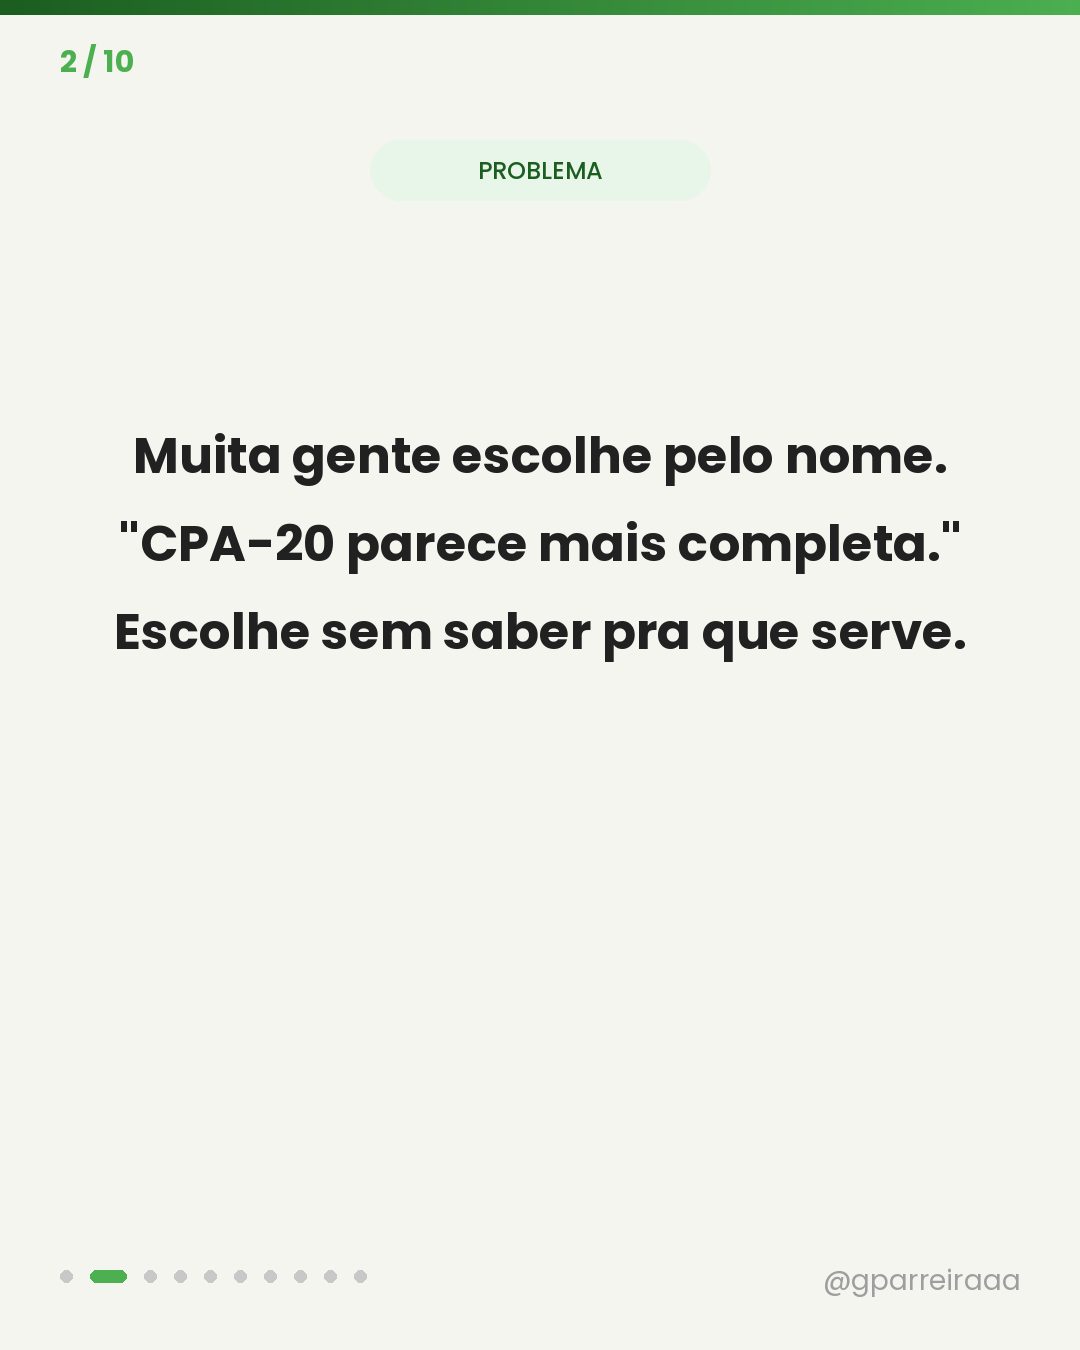
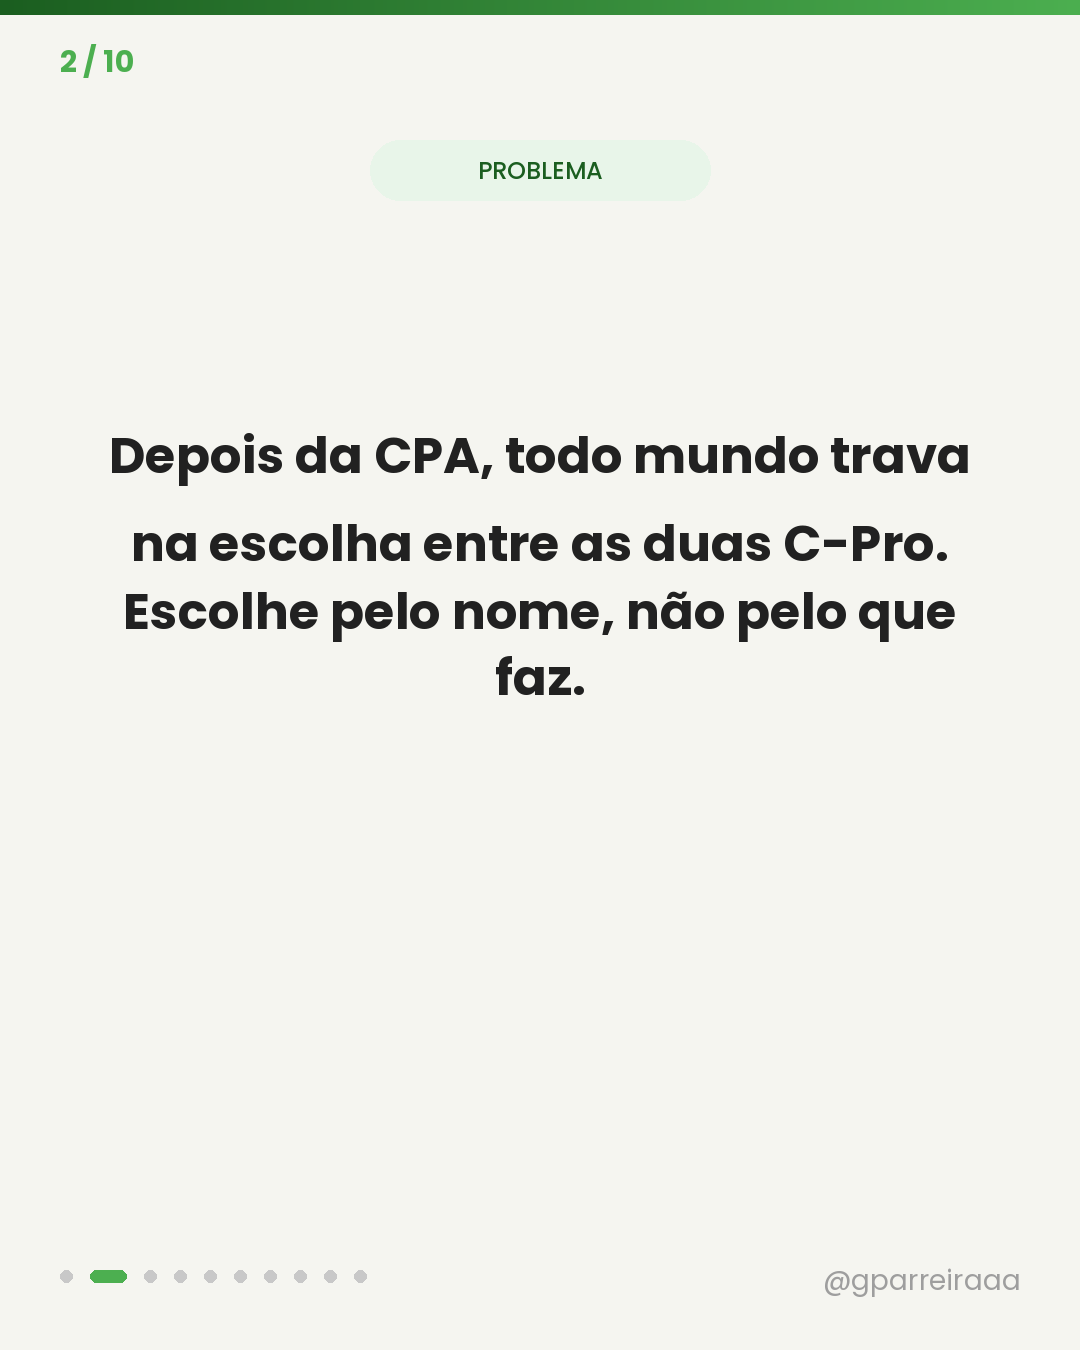
Corrige nomenclatura de certificações ANBIMA (CPA-10/20/CEA descontinuadas)
Desde jan/2026 a ANBIMA substituiu CPA-10, CPA-20 e CEA por CPA (base
única) + C-Pro R (relacionamento) + C-Pro I (investimento), confirmado
em anbimaedu.com.br/certificacoes. Atualiza todas as menções no
calendário e nos 7 posts da semana de teste; reescreve o post de 14/08
("Comparativo de Certificações"), que era inteiramente sobre CPA-10 x
CPA-20 e agora compara C-Pro R x C-Pro I (a decisão real pós-CPA);
regenera as imagens de 12/08 e 14/08 que citavam as siglas antigas.

Changed region(s): [[0.0917, 0.3111, 0.9167, 0.5289]]

diff --git a/conteudo/scripts/gerar_2026-08-14_cpa_comparativo.py b/conteudo/scripts/gerar_2026-08-14_cpa_comparativo.py
@@ -1,6 +1,7 @@
 """
-Gera o carrossel de 14/08/2026 — Comparativo CPA-10 x CPA-20.
+Gera o carrossel de 14/08/2026 — Comparativo C-Pro R x C-Pro I.
 Baseado no copy validado em conteudo/posts/2026-08-14/copy.md
+Reescrito em 04/08 — nomenclatura ANBIMA vigente desde jan/2026 (CPA-10/CPA-20/CEA descontinuadas).
 """
 import os
 import sys
@@ -38,21 +39,21 @@ def slide_conteudo(num, linhas, tag=None):
 def main():
     salvar(
         slide_capa(
-            "CPA-10 ou CPA-20:\numa te deixa\nestagnado.",
+            "C-Pro R ou C-Pro I:\nescolher errado trava\nsua especialização.",
             "Comparativo pra você decidir com base certa.",
         ),
         1,
     )
 
     slides_texto = [
-        (2, ["Muita gente escolhe pelo nome.", "\"CPA-20 parece mais completa.\"", "Escolhe sem saber pra que serve."], "PROBLEMA"),
-        (3, ["Escolha errada = prova mais difícil", "pra um mercado que você", "nem quer atuar."], "CONSEQUÊNCIA"),
-        (4, ["Foco em produtos simples de varejo.", "Fundos abertos, renda fixa,", "previdência básica."], "O QUE É CPA-10"),
-        (5, ["Escopo mais amplo: private,", "produtos estruturados,", "mercado de capitais."], "O QUE É CPA-20"),
-        (6, ["CPA-10: quem vai atender", "varejo simples.", "CPA-20: quem mira private,", "gerência, produtos complexos."], "PRA QUEM SERVE"),
-        (7, ["Quem escolhe pelo cargo que quer,", "não pelo \"nome mais bonito\",", "estuda menos e erra menos."], "RESULTADO"),
-        (8, ["A pergunta não é qual é mais difícil.", "É qual abre a porta que você quer."], "GUINADA"),
-        (9, ["Ainda em dúvida entre as duas?", "Isso trava carreira, não só prova."], "FECHAMENTO"),
+        (2, ["Depois da CPA, todo mundo trava", "na escolha entre as duas C-Pro.", "Escolhe pelo nome, não pelo que faz."], "PROBLEMA"),
+        (3, ["Vira especialista errado", "pro público errado.", "Tempo de estudo jogado fora."], "CONSEQUÊNCIA"),
+        (4, ["Foco em relacionamento com o cliente", "e recomendação de carteira.", "Pré-requisito: ter a CPA."], "O QUE É C-PRO R"),
+        (5, ["Foco em produtos complexos,", "gestão de risco, investimentos", "alternativos. Também exige a CPA."], "O QUE É C-PRO I"),
+        (6, ["C-Pro R: quem quer atender e", "recomendar carteira pro cliente.", "C-Pro I: quem quer ser especialista", "técnico em produto."], "PRA QUEM SERVE"),
+        (7, ["Quem escolhe pelo cargo que quer,", "não pelo \"nome mais completo\",", "estuda menos e erra menos."], "RESULTADO"),
+        (8, ["A pergunta não é qual é mais completa.", "É qual combina com o que você", "quer fazer no dia a dia."], "GUINADA"),
+        (9, ["Ainda em dúvida entre as duas?", "Isso trava especialização, não só prova."], "FECHAMENTO"),
     ]
     for num, linhas, tag in slides_texto:
         salvar(slide_conteudo(num, linhas, tag), num)

diff --git a/conteudo/scripts/gerar_2026-08-12_suitability.py b/conteudo/scripts/gerar_2026-08-12_suitability.py
@@ -124,7 +124,7 @@ def main():
     salvar(
         slide_cta(
             "Salva esse post.",
-            "Suitability cai em praticamente\ntoda prova ANBIMA\n(CPA-10, CPA-20, CEA).",
+            "Suitability cai em praticamente\ntoda prova ANBIMA\n(CPA, C-Pro R, C-Pro I).",
             10,
             TOTAL,
         ),

diff --git a/conteudo/posts/2026-08-11/copy.md b/conteudo/posts/2026-08-11/copy.md
@@ -1,30 +1,30 @@
-# 11/08/2026 — Mito vs. Verdade: "CPA-20 sabe mais que CFP"
+# 11/08/2026 — Mito vs. Verdade: "C-Pro R sabe mais que CFP"
 Pilar: ENT · Formato: Reel · Objetivo: gerar discordância nos comentários
 
 ## Roteiro (com timestamp + direção visual/áudio)
 
 **0:00–0:03 — HOOK**
-Texto na tela: "Quem tem CPA-20 sabe mais que quem tem CFP."
+Texto na tela: "Quem tem C-Pro R sabe mais que quem tem CFP."
 Falado (tom provocador, olhando pra câmera): "Isso aí que você acabou de ler? Mito."
 Áudio: trending de suspense/curto, corta seco no "Mito" com zoom rápido.
 
 **0:03–0:10 — POR QUE PARECE VERDADE**
-Texto na tela: "CPA-20 é mais avançada que CPA-10. Fácil pensar que é 'o topo'."
-Falado: explica que CPA-20 é hierarquicamente superior à CPA-10 dentro da própria ANBIMA — daí a confusão.
-Visual: mostrar com a mão uma "escada" imaginária (CPA-10 → CPA-20) subindo.
+Texto na tela: "C-Pro R exige a CPA como pré-requisito. Fácil pensar que é 'o nível seguinte'."
+Falado: explica que pra tirar a C-Pro R você precisa antes ter a CPA — daí a confusão de achar que é uma evolução linear, um "próximo nível" acima de tudo.
+Visual: mostrar com a mão um caminho em Y — CPA na base, se dividindo pra C-Pro R de um lado — em vez de uma escada reta subindo.
 
 **0:10–0:20 — A VIRADA**
-Texto na tela: "CFP não é 'nível 3'. É outro território."
-Falado: CPA-20 certifica distribuição de produtos de investimento no varejo/private. CFP certifica planejamento financeiro completo — sucessão, previdência, tributação, ciclo de vida do cliente.
-Visual: dividir a tela em dois blocos (ícone de gráfico de produtos vs. ícone de família/ciclo de vida) para marcar que são escopos diferentes, não um "ranking".
+Texto na tela: "CFP não é 'nível abaixo'. É outro território."
+Falado: C-Pro R certifica relacionamento e recomendação de carteira dentro da distribuição de produtos de investimento. CFP certifica planejamento financeiro completo — sucessão, previdência, tributação, ciclo de vida do cliente.
+Visual: dividir a tela em dois blocos (ícone de carteira de investimentos vs. ícone de família/ciclo de vida) para marcar que são escopos diferentes, não um "ranking".
 
 **0:20–0:28 — CONSEQUÊNCIA DE ACHAR QUE É RANKING**
-Falado: quem pensa em ranking escolhe a certificação errada pro objetivo errado — vira gestor de produto achando que virou planejador, ou vice-versa.
+Falado: quem pensa em ranking escolhe a certificação errada pro objetivo errado — vira especialista em recomendação de carteira achando que virou planejador, ou vice-versa.
 Texto na tela: "Escolher certificação por 'status' trava sua carreira."
 
 **0:28–0:33 — FECHAMENTO**
-Falado: "Não é qual é mais difícil. É qual serve pro que você quer fazer."
-Texto na tela: "CPA-20 → produtos. CFP → plano de vida financeira do cliente."
+Falado: "Não é qual exige mais pré-requisito. É qual serve pro que você quer fazer."
+Texto na tela: "C-Pro R → relacionamento e carteira. CFP → plano de vida financeira do cliente."
 
 **0:33–0:38 — CTA**
 Falado: "Comenta aqui: você tem qual das duas, ou tá em dúvida entre elas?"
@@ -32,15 +32,16 @@ Texto na tela: "Comenta 👇"
 
 ## Legenda
 
-Quem tem CPA-20 sabe mais que quem tem CFP? Mito — e é uma confusão que atrapalha gente boa a escolher a certificação errada. 👇
+Quem tem C-Pro R sabe mais que quem tem CFP? Mito — e é uma confusão que atrapalha gente boa a escolher a certificação errada. 👇
 
-CPA-20 é hierarquicamente "acima" da CPA-10 dentro da ANBIMA, então é fácil achar que ela também está "acima" da CFP. Não está. São escopos diferentes: CPA-20 certifica distribuição de produtos de investimento; CFP certifica planejamento financeiro completo (sucessão, previdência, tributação, ciclo de vida do cliente).
+A C-Pro R exige a CPA como pré-requisito, então é fácil achar que ela também está "acima" da CFP. Não está. São escopos diferentes: C-Pro R certifica relacionamento e recomendação de carteira dentro da distribuição de produtos; CFP certifica planejamento financeiro completo (sucessão, previdência, tributação, ciclo de vida do cliente).
 
-Escolher certificação pensando em "qual é mais difícil" em vez de "pra que ela serve" é o erro mais comum de quem tá começando.
+Escolher certificação pensando em "qual exige mais pré-requisito" em vez de "pra que ela serve" é o erro mais comum de quem tá começando.
 
 Comenta aqui: você tem qual das duas, ou tá em dúvida entre elas?
 
-#cpa20 #cfp #anbima #certificacaofinanceira #planejamentofinanceiro #mercadofinanceiro #educacaofinanceira
+#cpro #cpa #cfp #anbima #certificacaofinanceira #planejamentofinanceiro #mercadofinanceiro #educacaofinanceira
 
 ## Pendências antes de publicar
 - Nenhuma revisão técnica sensível necessária — é uma distinção de escopo entre certificações, não envolve norma de conduta ou cálculo.
+- Nomenclatura vigente desde jan/2026 (CPA, C-Pro R, C-Pro I substituindo CPA-10/CPA-20/CEA) — conferido no site oficial ANBIMA Edu.

diff --git a/conteudo/posts/2026-08-14/copy.md b/conteudo/posts/2026-08-14/copy.md
@@ -1,49 +1,54 @@
-# 14/08/2026 — Comparativo de Certificações: CPA-10 x CPA-20
+# 14/08/2026 — Comparativo de Certificações: C-Pro R x C-Pro I
 Pilar: VEN · Formato: Carrossel · Objetivo: conteúdo de decisão, puxa para mentoria/simulado
+
+**Nota:** post reescrito em 04/08 — a estrutura antiga (CPA-10 x CPA-20) não existe mais. Desde jan/2026 a ANBIMA descontinuou CPA-10, CPA-20 e CEA; a CPA passou a ser a certificação básica única, com duas especializações possíveis depois dela: C-Pro R (relacionamento) e C-Pro I (investimento). O comparativo de decisão que fazia sentido antes (qual CPA começar) agora é outro: qual especialização escolher depois da CPA.
 
 ## Estrutura do carrossel (Hook → Problema → Consequência → Método → Resultado → Guinada → Fechamento → CTA)
 
 **Slide 1 — Capa (Hook)**
-CPA-10 ou CPA-20:
-uma te deixa estagnado.
+C-Pro R ou C-Pro I:
+escolher errado trava
+sua especialização.
 
 **Slide 2 — Problema**
-Muita gente escolhe pelo nome.
-"CPA-20 parece mais completa."
-Escolhe sem saber pra que serve.
+Depois da CPA, todo mundo trava
+na escolha entre as duas C-Pro.
+Escolhe pelo nome, não pelo que faz.
 
 **Slide 3 — Consequência**
-Escolha errada = prova mais difícil
-pra um mercado que você nem quer atuar.
+Vira especialista errado
+pro público errado.
 Tempo de estudo jogado fora.
 
-**Slide 4 — Método 1/3: O que é CPA-10**
-Foco em produtos simples de varejo.
-Fundos abertos, renda fixa, previdência básica.
-Porta de entrada mais rápida.
+**Slide 4 — Método 1/3: O que é C-Pro R**
+Foco em relacionamento com o cliente
+e recomendação de carteira.
+Pré-requisito: ter a CPA.
 
-**Slide 5 — Método 2/3: O que é CPA-20**
-Escopo mais amplo: private, produtos
-estruturados, mercado de capitais.
-Prova mais longa, mais peso.
+**Slide 5 — Método 2/3: O que é C-Pro I**
+Foco em produtos complexos,
+gestão de risco, investimentos
+alternativos. Também exige a CPA.
 
 **Slide 6 — Método 3/3: Pra quem serve cada uma**
-CPA-10: quem vai atender varejo simples.
-CPA-20: quem mira private, gerência,
-produtos complexos.
+C-Pro R: quem quer atender e
+recomendar carteira pro cliente.
+C-Pro I: quem quer ser especialista
+técnico em produto.
 
 **Slide 7 — Resultado**
 Quem escolhe pelo cargo que quer,
-não pelo "nome mais bonito",
+não pelo "nome mais completo",
 estuda menos e erra menos.
 
 **Slide 8 — Guinada de Perspectiva**
-A pergunta não é qual é mais difícil.
-É qual abre a porta que você quer.
+A pergunta não é qual é mais completa.
+É qual combina com o que você
+quer fazer no dia a dia.
 
 **Slide 9 — Fechamento**
 Ainda em dúvida entre as duas?
-Isso trava carreira, não só prova.
+Isso trava especialização, não só prova.
 
 **Slide 10 — CTA**
 Manda mensagem contando seu objetivo.
@@ -51,15 +56,16 @@ Te ajudo a decidir qual faz sentido.
 
 ## Legenda
 
-CPA-10 ou CPA-20: uma escolha errada te deixa estagnado. 👇
+C-Pro R ou C-Pro I: escolher errado trava sua especialização. 👇
 
-Muita gente escolhe pela certificação "que parece mais completa" sem saber pra que ela realmente serve. CPA-10 é porta de entrada pra varejo simples (fundos abertos, renda fixa, previdência básica). CPA-20 tem escopo mais amplo — private, produtos estruturados, mercado de capitais — e prova mais longa.
+Depois da CPA (a certificação básica, obrigatória pra todo mundo), vem a escolha entre as duas especializações — e muita gente escolhe pelo nome "que parece mais completo" sem saber pra que ela realmente serve. C-Pro R é foco em relacionamento com o cliente e recomendação de carteira. C-Pro I é foco em produtos complexos, gestão de risco e investimentos alternativos.
 
-A pergunta certa não é "qual é mais difícil". É "qual abre a porta que eu quero".
+A pergunta certa não é "qual é mais completa". É "qual combina com o que eu quero fazer no dia a dia".
 
 Ainda em dúvida entre as duas? Manda mensagem contando seu objetivo de carreira — te ajudo a decidir qual faz sentido pra você.
 
-#cpa10 #cpa20 #anbima #certificacaofinanceira #carreirafinanceira #mercadofinanceiro
+#cpa #cpror #cproi #anbima #certificacaofinanceira #carreirafinanceira #mercadofinanceiro
 
 ## Pendências antes de publicar
-- Nenhuma revisão técnica sensível — é uma distinção de escopo entre certificações (não envolve cálculo ou norma de conduta), mas vale confirmar que a descrição de escopo de cada prova segue o edital vigente da ANBIMA antes de publicar.
+- Nenhuma revisão técnica sensível — é uma distinção de escopo entre certificações (não envolve cálculo ou norma de conduta), mas vale confirmar que a descrição de escopo de cada prova segue o edital vigente da ANBIMA/ANBIMA Edu antes de publicar.
+- Nomenclatura vigente desde jan/2026 (CPA, C-Pro R, C-Pro I) — conferido no site oficial ANBIMA Edu (anbimaedu.com.br/certificacoes).

diff --git a/conteudo/calendario/2026-08-10_semana-teste.md b/conteudo/calendario/2026-08-10_semana-teste.md
@@ -5,11 +5,11 @@ Modelo B (diário, 7 posts/semana, formato livre por ideia). Gerado para validar
 | Data | Dia | Pilar | Categoria | Formato | Hook | Ideia (motivo de existir) |
 |---|---|---|---|---|---|---|
 | 10/08 | Seg | EDU | Tradução de Jargão | Carrossel | "Come-cotas não é imposto extra. É antecipação." | Termo mais mal-entendido por quem começa em fundos — mata a objeção nº1 contra investir em fundos de renda fixa. |
-| 11/08 | Ter | ENT | Mito vs. Verdade do Mercado | Reel | "Quem tem CPA-20 sabe mais que quem tem CFP. Mito." | Desmonta a crença de que certificação mais avançada = mais completa; gera discordância nos comentários. |
+| 11/08 | Ter | ENT | Mito vs. Verdade do Mercado | Reel | "Quem tem C-Pro R sabe mais que quem tem CFP. Mito." | Desmonta a crença de que certificação mais avançada = mais completa; gera discordância nos comentários. |
 | 12/08 | Qua | EDU | Questão Comentada | Carrossel | "Essa questão reprovou 6 em cada 10 no simulado." | Questão padrão FGV sobre suitability, gabarito comentado alternativa por alternativa. |
 | 13/08 | Qui | CONF | Economia no Dia a Dia | Story | "Selic subiu. Isso muda sua reserva de emergência." | Traduz a notícia da semana (Selic) para decisão prática do seguidor — CTA para DM. |
-| 14/08 | Sex | VEN | Comparativo de Certificações | Carrossel | "CPA-10 ou CPA-20: uma te deixa estagnado." | Conteúdo de decisão para quem está escolhendo por qual certificação começar — puxa para mentoria/simulado. |
-| 15/08 | Sáb | ENT | Números que Ninguém Te Conta | Reel | "Só 12% de quem presta CPA-20 estuda mais de 1h/dia." | Estatística que gera compartilhamento e comparação entre seguidores nos comentários. |
+| 14/08 | Sex | VEN | Comparativo de Certificações | Carrossel | "C-Pro R ou C-Pro I: escolher errado trava sua especialização." | Conteúdo de decisão para quem já tem a CPA e precisa escolher a especialização — puxa para mentoria/simulado. |
+| 15/08 | Sáb | ENT | Números que Ninguém Te Conta | Reel | "Só 12% de quem presta a CPA estuda mais de 1h/dia." | Estatística que gera compartilhamento e comparação entre seguidores nos comentários. |
 | 16/08 | Dom | CONF | Bastidores da Carreira de Gestor | Imagem estática | "O dia que quase saí da gestora por um erro de marcação." | Humaniza, mostra erro real já cometido — constrói credibilidade sem parecer perfeito. |
 
 ## Checagem da regra dos 3 dias

diff --git a/conteudo/posts/2026-08-15/copy.md b/conteudo/posts/2026-08-15/copy.md
@@ -2,12 +2,12 @@
 Pilar: ENT · Formato: Reel · Objetivo: compartilhamento/comparação nos comentários
 
 ## ⚠ ATENÇÃO: estatística não verificada
-O número "12%" usado no hook é **ilustrativo**, criado para estruturar o roteiro — não vem de pesquisa real. **Não publicar sem antes substituir por um dado com fonte confirmada** (pesquisa própria com alunos, dado de plataforma de ensino, ou remover o número e trocar por uma pergunta aberta tipo "quanto tempo por dia você estuda pra CPA-20?"). Publicar estatística fabricada como fato quebra a credibilidade da conta — é a coisa errada a fazer mesmo sendo conteúdo de ENT/alcance.
+O número "12%" usado no hook é **ilustrativo**, criado para estruturar o roteiro — não vem de pesquisa real. **Não publicar sem antes substituir por um dado com fonte confirmada** (pesquisa própria com alunos, dado de plataforma de ensino, ou remover o número e trocar por uma pergunta aberta tipo "quanto tempo por dia você estuda pra CPA?"). Publicar estatística fabricada como fato quebra a credibilidade da conta — é a coisa errada a fazer mesmo sendo conteúdo de ENT/alcance.
 
 ## Roteiro (com timestamp + direção visual/áudio)
 
 **0:00–0:03 — HOOK**
-Texto na tela: "Quanto tempo por dia você estuda pra CPA-20?"
+Texto na tela: "Quanto tempo por dia você estuda pra CPA?"
 Falado: "A resposta da maioria vai te surpreender."
 Áudio: batida curta, corte seco.
 
@@ -29,7 +29,7 @@ Texto na tela: "Comenta 👇"
 
 ## Legenda
 
-Quanto tempo por dia você estuda pra CPA-20? A resposta da maioria vai te surpreender. 👇
+Quanto tempo por dia você estuda pra CPA? A resposta da maioria vai te surpreender. 👇
 
 [Completar com o dado real depois de validado — não usar número sem fonte]
 
@@ -37,7 +37,8 @@ Estudar pouco todo dia bate estudar muito de uma vez só. Não é sobre quantas 
 
 Comenta aqui quanto tempo você estuda por dia. Sem julgamento.
 
-#cpa20 #anbima #certificacaofinanceira #rotinadeestudos #concurseiro #mercadofinanceiro
+#cpa #anbima #certificacaofinanceira #rotinadeestudos #concurseiro #mercadofinanceiro
 
 ## Pendências antes de publicar
 - **Bloqueante:** substituir a estatística ilustrativa por dado real com fonte, ou remover o número e manter só a pergunta aberta.
+- Nomenclatura vigente desde jan/2026 (CPA substitui CPA-10/CPA-20/CEA) — conferido no site oficial ANBIMA Edu.

diff --git a/conteudo/posts/2026-08-16/copy.md b/conteudo/posts/2026-08-16/copy.md
@@ -17,9 +17,10 @@ Por trás de cada decisão de carteira tem um comitê de investimentos, complian
 
 É por isso que a regulação exige tanta camada: comitê, gestor responsável, gestor reserva, compliance independente. Ninguém decide sozinho, e ninguém decide sem deixar rastro.
 
-Quem estuda pra CPA-20 ou CGE encontra essas camadas na prova — mas é bom entender o porquê delas existirem antes de decorar o nome de cada uma.
+Quem estuda pra C-Pro R, C-Pro I ou CGE encontra essas camadas na prova — mas é bom entender o porquê delas existirem antes de decorar o nome de cada uma.
 
 #gestordefundos #mercadofinanceiro #anbima #cga #cge #bastidores #educacaofinanceira
 
 ## Pendências antes de publicar
 - Nenhuma revisão técnica sensível — descrição institucional geral da governança de gestão de fundos, sem uso do Gabriel como case pessoal.
+- Nomenclatura vigente desde jan/2026 (C-Pro R, C-Pro I substituindo CPA-20/CEA) — conferido no site oficial ANBIMA Edu.

diff --git a/conteudo/posts/2026-08-12/copy.md b/conteudo/posts/2026-08-12/copy.md
@@ -74,6 +74,6 @@ Cliente de varejo se recusa a atualizar o suitability. O que o distribuidor deve
 
 Regra geral pra guardar: suitability não existe pra travar o cliente. Existe pra travar a recomendação sem base.
 
-Salva esse post — suitability cai em praticamente toda prova ANBIMA (CPA-10, CPA-20, CEA).
+Salva esse post — suitability cai em praticamente toda prova ANBIMA (CPA, C-Pro R, C-Pro I).
 
-#suitability #anbima #cpa20 #cpa10 #cea #questaocomentada #certificacaofinanceira #mercadofinanceiro
+#suitability #anbima #cpa #cpro #questaocomentada #certificacaofinanceira #mercadofinanceiro

diff --git a/conteudo/posts/2026-08-10/copy.md b/conteudo/posts/2026-08-10/copy.md
@@ -61,7 +61,7 @@ Todo maio e novembro seu fundo "perde" cotas e muita gente acha que é imposto a
 
 Quem entende isso não vende fundo no dia do come-cotas por pânico. Fica com a estratégia.
 
-Isso cai na prova (CPA-10, CPA-20, CEA) e cai na sua carteira, se você não souber.
+Isso cai na prova (CPA, C-Pro R, C-Pro I) e cai na sua carteira, se você não souber.
 
 Salva esse post pra lembrar disso no próximo come-cotas.
 
